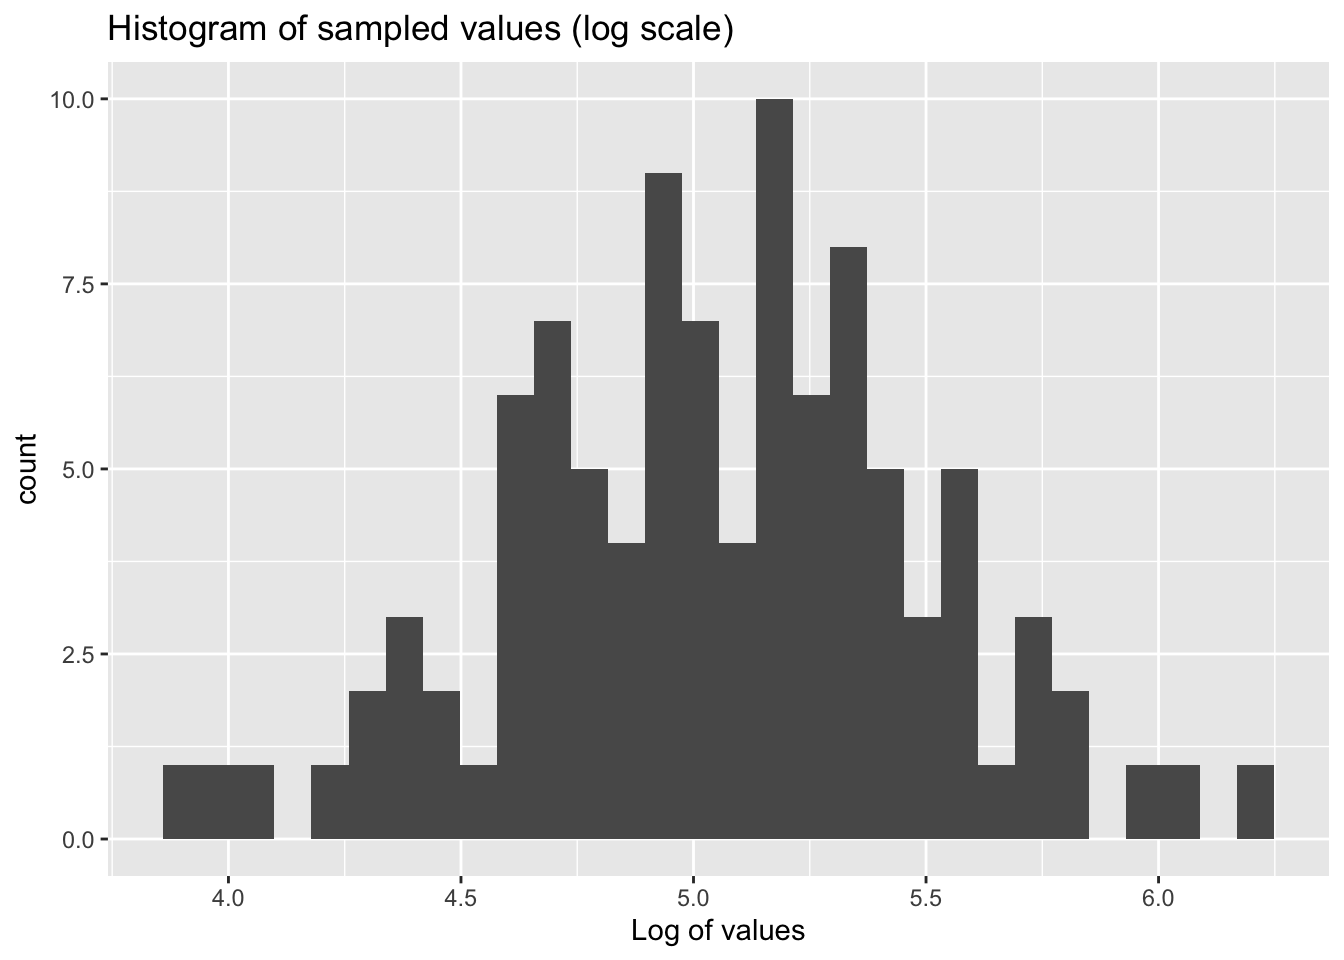
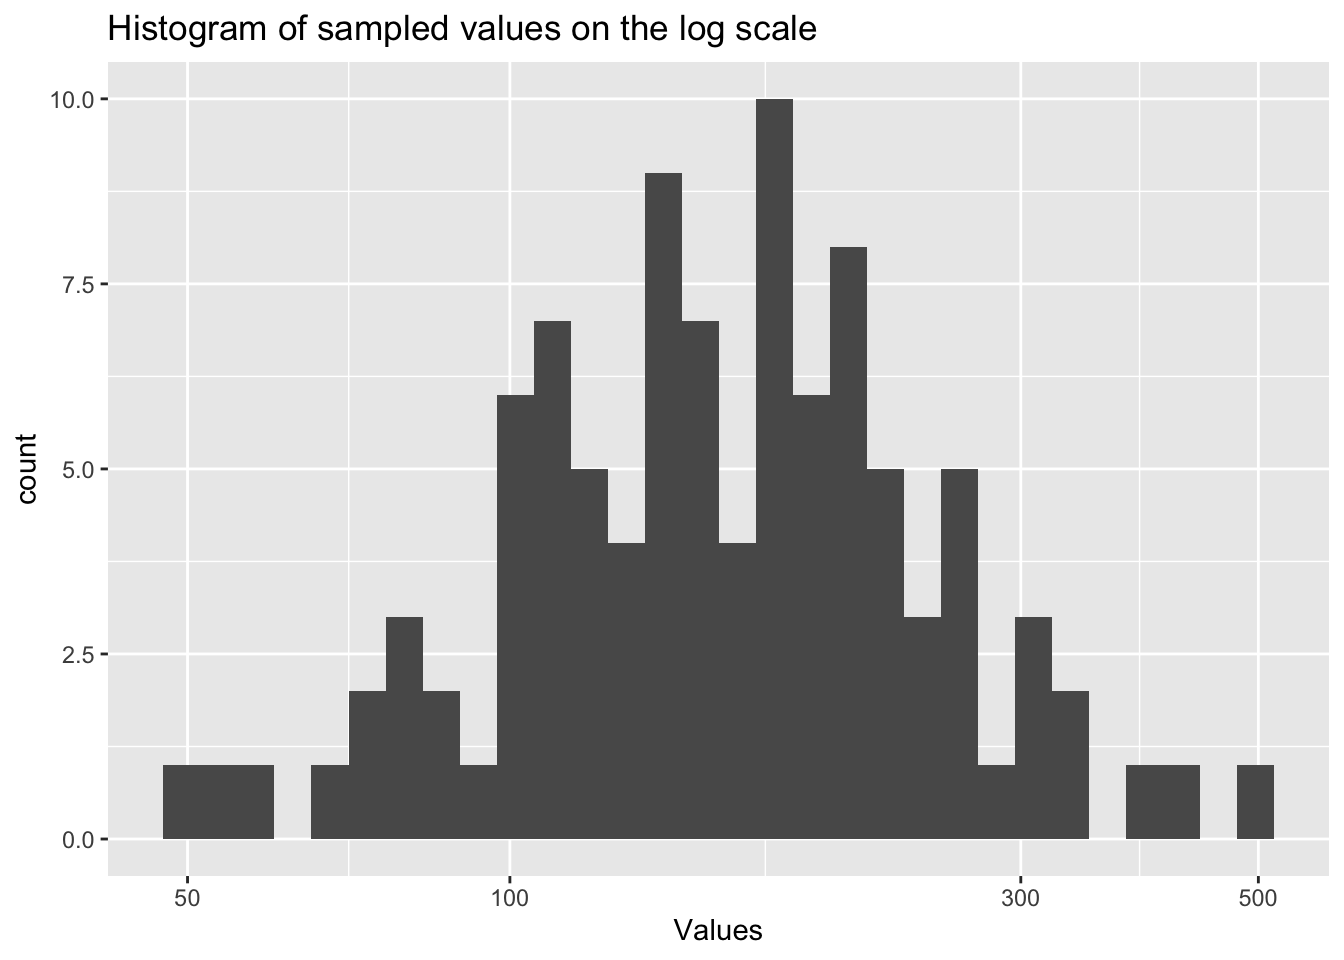
Fixed log scale

diff --git a/Ex1_Broustail.html b/Ex1_Broustail.html
@@ -128,14 +128,17 @@ pre > code.sourceCode > span > a:first-child::before { text-decoration: underlin
 <span id="cb2-4"><a href="#cb2-4" aria-hidden="true" tabindex="-1"></a>data <span class="ot">&lt;-</span> <span class="fu">data.frame</span>(<span class="at">values =</span> vec)</span>
 <span id="cb2-5"><a href="#cb2-5" aria-hidden="true" tabindex="-1"></a></span>
 <span id="cb2-6"><a href="#cb2-6" aria-hidden="true" tabindex="-1"></a><span class="co"># linear scale</span></span>
-<span id="cb2-7"><a href="#cb2-7" aria-hidden="true" tabindex="-1"></a>p1 <span class="ot">&lt;-</span> <span class="fu">ggplot</span>(data, <span class="fu">aes</span>(<span class="at">x =</span> values)) <span class="sc">+</span> <span class="fu">geom_histogram</span>(<span class="at">bins =</span> <span class="dv">30</span>) </span>
-<span id="cb2-8"><a href="#cb2-8" aria-hidden="true" tabindex="-1"></a>p1 <span class="sc">+</span> <span class="fu">ggtitle</span>(<span class="st">"Histogram of sampled values"</span>)</span></code><button title="Copy to Clipboard" class="code-copy-button"><i class="bi"></i></button></pre></div>
+<span id="cb2-7"><a href="#cb2-7" aria-hidden="true" tabindex="-1"></a>p1 <span class="ot">&lt;-</span> <span class="fu">ggplot</span>(data, <span class="fu">aes</span>(<span class="at">x =</span> values)) <span class="sc">+</span> <span class="fu">geom_histogram</span>(<span class="at">bins =</span> <span class="dv">30</span>) <span class="sc">+</span></span>
+<span id="cb2-8"><a href="#cb2-8" aria-hidden="true" tabindex="-1"></a>      <span class="fu">ggtitle</span>(<span class="st">"Histogram of sampled values"</span>)</span>
+<span id="cb2-9"><a href="#cb2-9" aria-hidden="true" tabindex="-1"></a>p1</span></code><button title="Copy to Clipboard" class="code-copy-button"><i class="bi"></i></button></pre></div>
 <div class="cell-output-display">
 <p><img src="Ex1_Broustail_files/figure-html/unnamed-chunk-2-1.png" class="img-fluid" width="672"></p>
 </div>
 <div class="sourceCode cell-code" id="cb3"><pre class="sourceCode r code-with-copy"><code class="sourceCode r"><span id="cb3-1"><a href="#cb3-1" aria-hidden="true" tabindex="-1"></a><span class="co"># log scale</span></span>
-<span id="cb3-2"><a href="#cb3-2" aria-hidden="true" tabindex="-1"></a>p2 <span class="ot">&lt;-</span> <span class="fu">ggplot</span>(data, <span class="fu">aes</span>(<span class="at">x =</span> <span class="fu">log</span>(values))) <span class="sc">+</span> <span class="fu">geom_histogram</span>(<span class="at">bins =</span> <span class="dv">30</span>)</span>
-<span id="cb3-3"><a href="#cb3-3" aria-hidden="true" tabindex="-1"></a>p2 <span class="sc">+</span> <span class="fu">ggtitle</span>(<span class="st">"Histogram of sampled values (log scale)"</span>) <span class="sc">+</span> <span class="fu">xlab</span>(<span class="st">"Log of values"</span>) </span></code><button title="Copy to Clipboard" class="code-copy-button"><i class="bi"></i></button></pre></div>
+<span id="cb3-2"><a href="#cb3-2" aria-hidden="true" tabindex="-1"></a>p2 <span class="ot">&lt;-</span> <span class="fu">ggplot</span>(data, <span class="fu">aes</span>(<span class="at">x =</span> values)) <span class="sc">+</span> <span class="fu">geom_histogram</span>(<span class="at">bins =</span> <span class="dv">30</span>) <span class="sc">+</span></span>
+<span id="cb3-3"><a href="#cb3-3" aria-hidden="true" tabindex="-1"></a>      <span class="fu">scale_x_log10</span>() <span class="sc">+</span> <span class="fu">ggtitle</span>(<span class="st">"Histogram of sampled values on the log scale"</span>) <span class="sc">+</span></span>
+<span id="cb3-4"><a href="#cb3-4" aria-hidden="true" tabindex="-1"></a>      <span class="fu">xlab</span>(<span class="st">"Values"</span>) </span>
+<span id="cb3-5"><a href="#cb3-5" aria-hidden="true" tabindex="-1"></a>p2</span></code><button title="Copy to Clipboard" class="code-copy-button"><i class="bi"></i></button></pre></div>
 <div class="cell-output-display">
 <p><img src="Ex1_Broustail_files/figure-html/unnamed-chunk-2-2.png" class="img-fluid" width="672"></p>
 </div>
@@ -146,14 +149,17 @@ pre > code.sourceCode > span > a:first-child::before { text-decoration: underlin
 <p>We generate the violin plots for both linear and log scales.</p>
 <div class="cell">
 <div class="sourceCode cell-code" id="cb4"><pre class="sourceCode r code-with-copy"><code class="sourceCode r"><span id="cb4-1"><a href="#cb4-1" aria-hidden="true" tabindex="-1"></a><span class="co"># linear scale</span></span>
-<span id="cb4-2"><a href="#cb4-2" aria-hidden="true" tabindex="-1"></a>p1 <span class="ot">&lt;-</span> <span class="fu">ggplot</span>(data, <span class="fu">aes</span>(<span class="at">x =</span> <span class="st">""</span>, <span class="at">y =</span> values)) <span class="sc">+</span> <span class="fu">geom_violin</span>() </span>
-<span id="cb4-3"><a href="#cb4-3" aria-hidden="true" tabindex="-1"></a>p1 <span class="sc">+</span> <span class="fu">xlab</span>(<span class="st">""</span>) <span class="sc">+</span> <span class="fu">ggtitle</span>(<span class="st">"Violin plot of sampled values"</span>)</span></code><button title="Copy to Clipboard" class="code-copy-button"><i class="bi"></i></button></pre></div>
+<span id="cb4-2"><a href="#cb4-2" aria-hidden="true" tabindex="-1"></a>p1 <span class="ot">&lt;-</span> <span class="fu">ggplot</span>(data, <span class="fu">aes</span>(<span class="at">x =</span> <span class="st">""</span>, <span class="at">y =</span> values)) <span class="sc">+</span> <span class="fu">geom_violin</span>() <span class="sc">+</span></span>
+<span id="cb4-3"><a href="#cb4-3" aria-hidden="true" tabindex="-1"></a>              <span class="fu">xlab</span>(<span class="st">""</span>) <span class="sc">+</span> <span class="fu">ggtitle</span>(<span class="st">"Violin plot of sampled values"</span>)</span>
+<span id="cb4-4"><a href="#cb4-4" aria-hidden="true" tabindex="-1"></a>p1</span></code><button title="Copy to Clipboard" class="code-copy-button"><i class="bi"></i></button></pre></div>
 <div class="cell-output-display">
 <p><img src="Ex1_Broustail_files/figure-html/unnamed-chunk-3-1.png" class="img-fluid" width="672"></p>
 </div>
 <div class="sourceCode cell-code" id="cb5"><pre class="sourceCode r code-with-copy"><code class="sourceCode r"><span id="cb5-1"><a href="#cb5-1" aria-hidden="true" tabindex="-1"></a><span class="co"># log scale</span></span>
-<span id="cb5-2"><a href="#cb5-2" aria-hidden="true" tabindex="-1"></a>p2 <span class="ot">&lt;-</span> <span class="fu">ggplot</span>(data, <span class="fu">aes</span>(<span class="at">x =</span> <span class="st">""</span>, <span class="at">y =</span> <span class="fu">log</span>(values))) <span class="sc">+</span> <span class="fu">geom_violin</span>() </span>
-<span id="cb5-3"><a href="#cb5-3" aria-hidden="true" tabindex="-1"></a>p2 <span class="sc">+</span> <span class="fu">xlab</span>(<span class="st">""</span>) <span class="sc">+</span> <span class="fu">ggtitle</span>(<span class="st">"Violin plot of the log of sampled values"</span>)</span></code><button title="Copy to Clipboard" class="code-copy-button"><i class="bi"></i></button></pre></div>
+<span id="cb5-2"><a href="#cb5-2" aria-hidden="true" tabindex="-1"></a>p2 <span class="ot">&lt;-</span> <span class="fu">ggplot</span>(data, <span class="fu">aes</span>(<span class="at">x =</span> <span class="st">""</span>, <span class="at">y =</span> values)) <span class="sc">+</span> <span class="fu">geom_violin</span>() <span class="sc">+</span></span>
+<span id="cb5-3"><a href="#cb5-3" aria-hidden="true" tabindex="-1"></a>             <span class="fu">scale_y_log10</span>() <span class="sc">+</span> <span class="fu">xlab</span>(<span class="st">""</span>) <span class="sc">+</span> </span>
+<span id="cb5-4"><a href="#cb5-4" aria-hidden="true" tabindex="-1"></a>             <span class="fu">ggtitle</span>(<span class="st">"Violin plot of sampled values on the log scale"</span>)</span>
+<span id="cb5-5"><a href="#cb5-5" aria-hidden="true" tabindex="-1"></a>p2</span></code><button title="Copy to Clipboard" class="code-copy-button"><i class="bi"></i></button></pre></div>
 <div class="cell-output-display">
 <p><img src="Ex1_Broustail_files/figure-html/unnamed-chunk-3-2.png" class="img-fluid" width="672"></p>
 </div>
